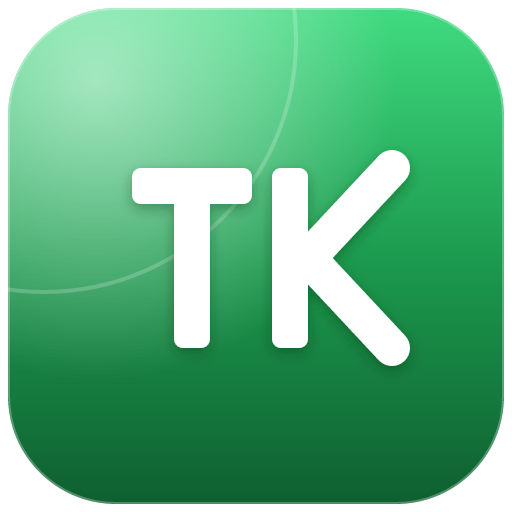
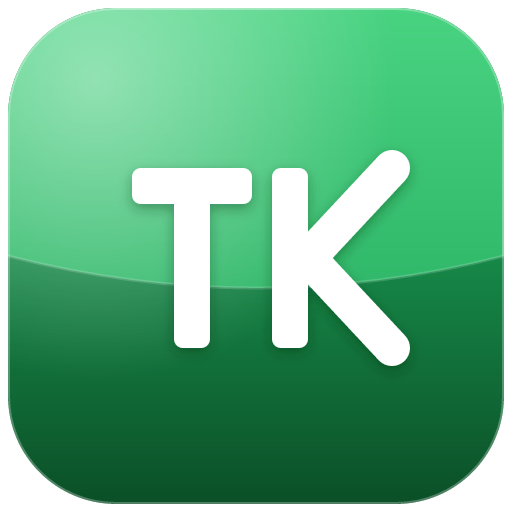
fix: โลโก้ TK — แบ่ง 2 โทนสีแบบ FW (บนเขียวสว่าง/ล่างเขียวเข้ม)
แบ่งโทนสีเป็น 2 ส่วนตามเส้นกระจกโค้ง: บน = เขียวสว่าง, ล่าง = เขียวเข้ม
+ เงากระจกมุมบนซ้าย · sync generator · icon.svg · Logo.tsx + PNG

diff --git a/src/components/Logo.tsx b/src/components/Logo.tsx
@@ -17,24 +17,28 @@ export function Logo({ size = 40, className }: { size?: number; className?: stri
       xmlns="http://www.w3.org/2000/svg"
     >
       <defs>
-        <linearGradient id="tk-bg" x1="256" y1="16" x2="256" y2="504" gradientUnits="userSpaceOnUse">
-          <stop offset="0" stopColor="#3fd97f" />
-          <stop offset="0.5" stopColor="#1c9a4e" />
-          <stop offset="1" stopColor="#0f5f30" />
+        <linearGradient id="tk-dark" x1="256" y1="240" x2="256" y2="504" gradientUnits="userSpaceOnUse">
+          <stop offset="0" stopColor="#178c4a" />
+          <stop offset="1" stopColor="#0b4f27" />
+        </linearGradient>
+        <linearGradient id="tk-light" x1="256" y1="8" x2="256" y2="320" gradientUnits="userSpaceOnUse">
+          <stop offset="0" stopColor="#48d381" />
+          <stop offset="1" stopColor="#2eb567" />
         </linearGradient>
         <radialGradient id="tk-gloss" cx="96" cy="80" r="300" gradientUnits="userSpaceOnUse">
-          <stop offset="0" stopColor="#ffffff" stopOpacity="0.55" />
-          <stop offset="0.62" stopColor="#ffffff" stopOpacity="0.22" />
+          <stop offset="0" stopColor="#ffffff" stopOpacity="0.42" />
+          <stop offset="0.62" stopColor="#ffffff" stopOpacity="0.16" />
           <stop offset="1" stopColor="#ffffff" stopOpacity="0" />
         </radialGradient>
         <clipPath id="tk-clip">
           <rect x="8" y="8" width="496" height="496" rx="108" />
         </clipPath>
       </defs>
-      <rect x="8" y="8" width="496" height="496" rx="108" fill="url(#tk-bg)" />
+      <rect x="8" y="8" width="496" height="496" rx="108" fill="url(#tk-dark)" />
       <g clipPath="url(#tk-clip)">
+        <path d="M8 8 H504 V256 Q256 320 8 256 Z" fill="url(#tk-light)" />
+        <path d="M8 8 H504 V256 Q256 320 8 256" fill="none" stroke="#ffffff" strokeOpacity="0.16" strokeWidth="3" />
         <rect x="8" y="8" width="496" height="496" fill="url(#tk-gloss)" />
-        <circle cx="44" cy="40" r="252" fill="none" stroke="#ffffff" strokeOpacity="0.20" strokeWidth="4" />
       </g>
       <rect x="9" y="9" width="494" height="494" rx="107" fill="none" stroke="#ffffff" strokeOpacity="0.28" strokeWidth="2" />
       {/* TK monogram */}
